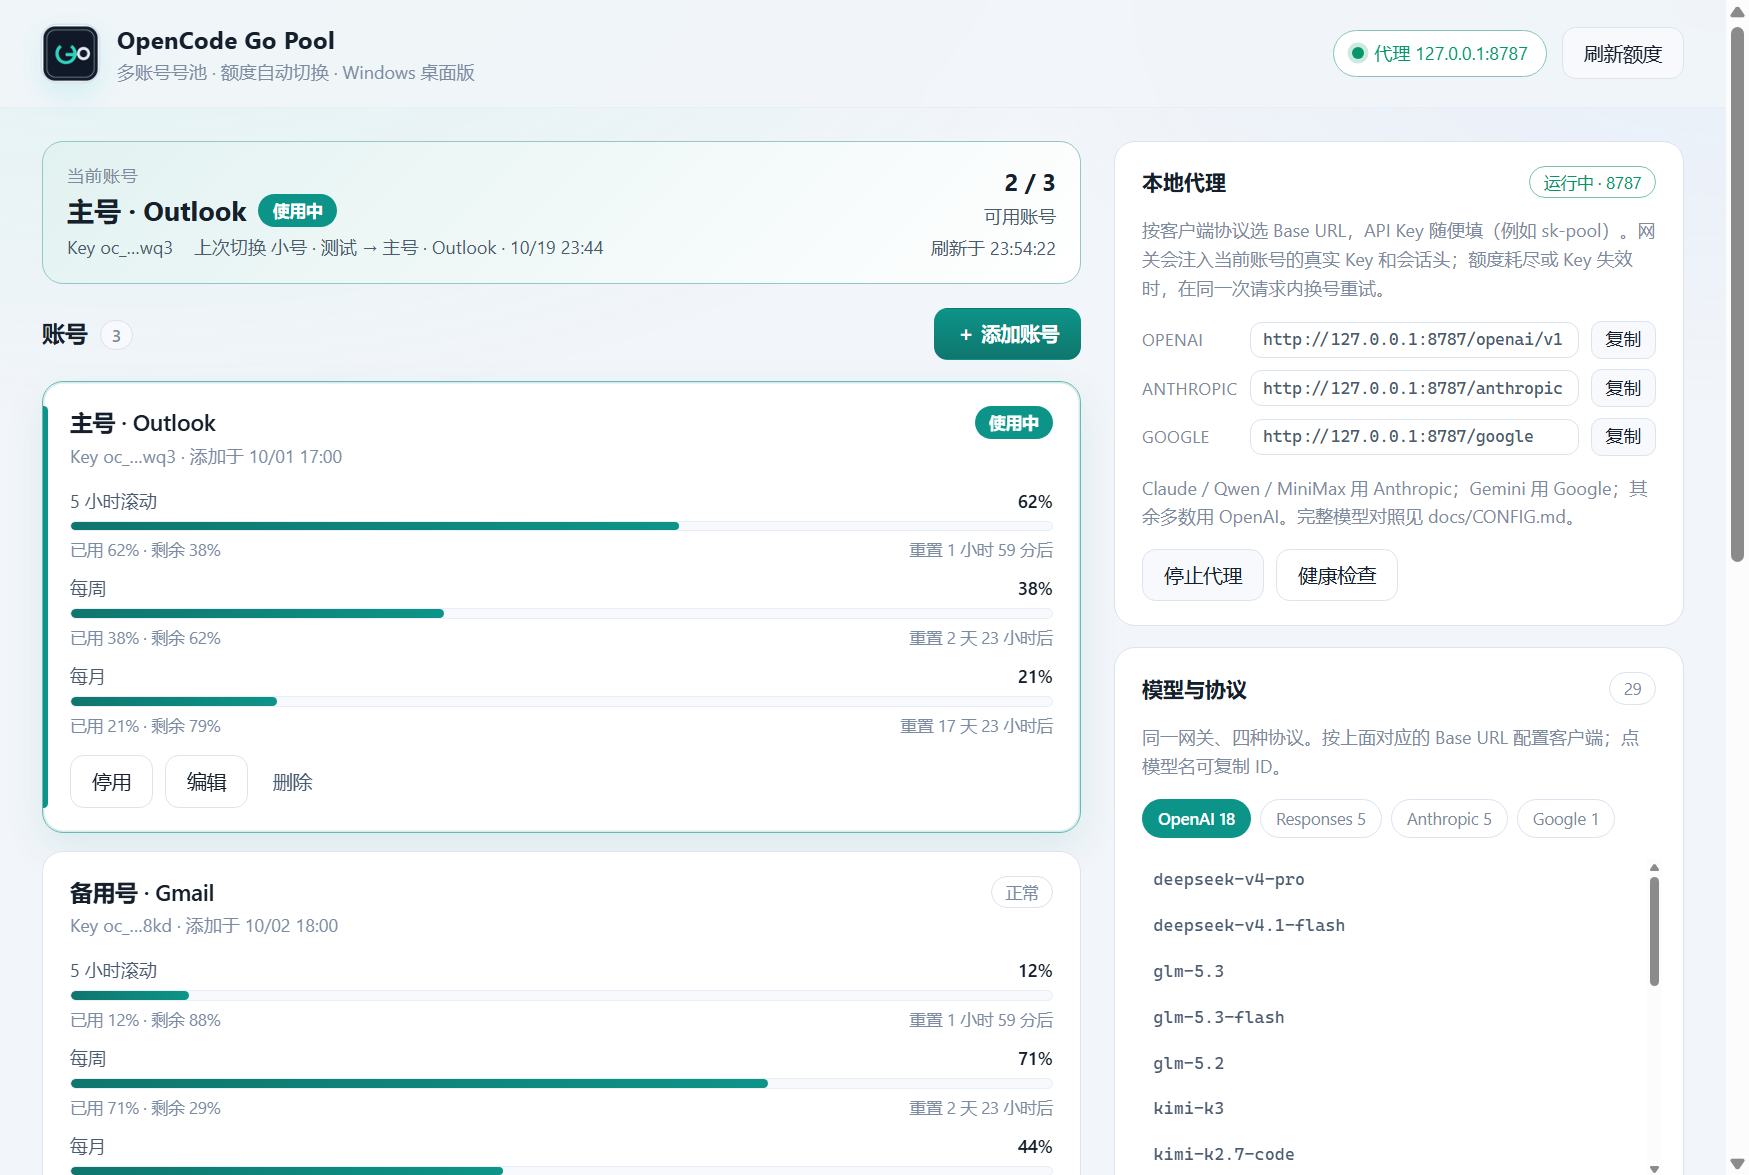
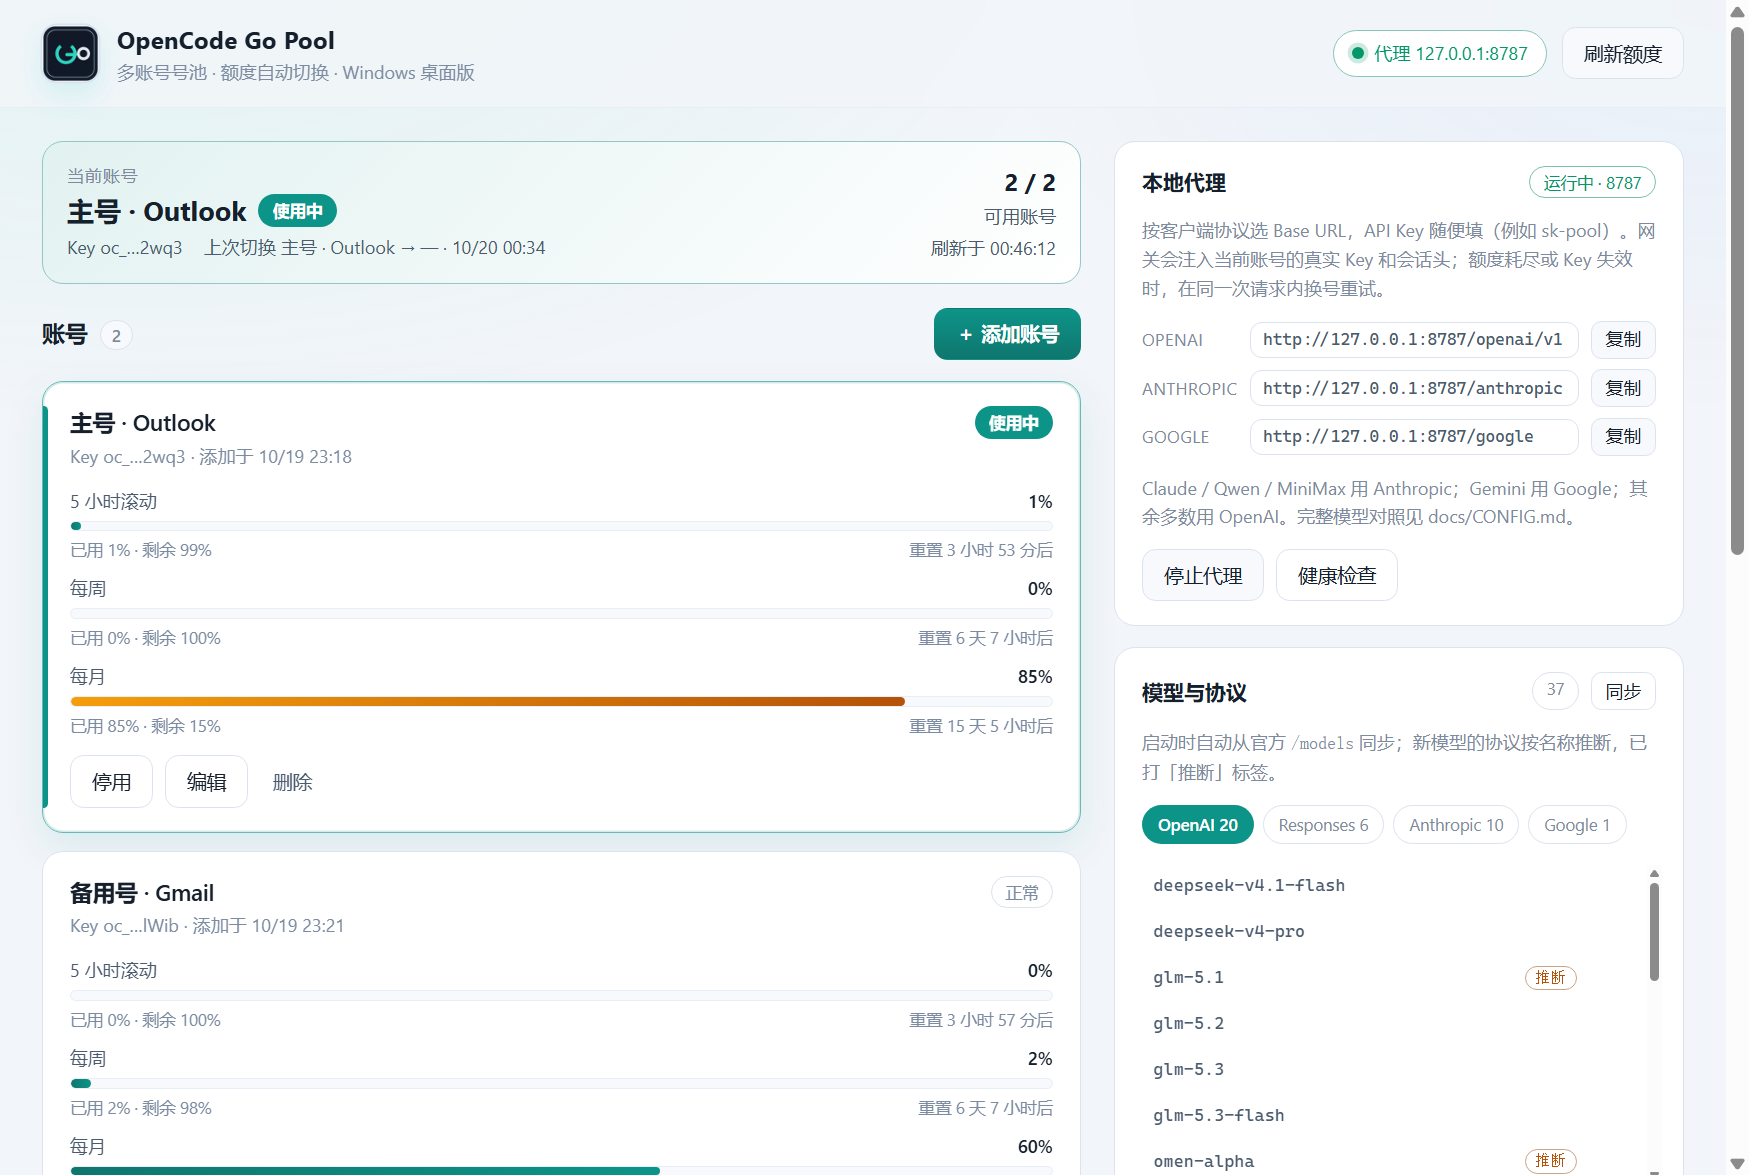
feat: 模型目录自动同步（启动/6h/手动），新模型推断协议
- 新增 models:list IPC，经本地网关注入 Key 拉官方 /models
- UI 动态分组与计数，新模型按名称推断并标「推断」
- 同步失败回退到内置 29 个目录

diff --git a/renderer/app.js b/renderer/app.js
@@ -94,33 +94,55 @@ const USAGE_ERROR_TEXT = {
   'bad-json': '额度接口响应无法解析',
 }
 
-// OpenCode Go 的模型按上游协议分组（pi-ai 1.3.0 目录）。
-// 配错协议会得到上游 400，所以这里按协议分开展示。
-const MODEL_CATALOG = {
-  openai: {
-    note: 'OpenAI Chat 组：兼容性最好，DSH / ZCode / Cherry Studio 等「OpenAI 兼容」供应商填 http://127.0.0.1:8787/openai/v1。',
-    models: [
-      'deepseek-v4-pro', 'deepseek-v4.1-flash', 'glm-5.3', 'glm-5.3-flash', 'glm-5.2',
-      'kimi-k3', 'kimi-k2.7-code', 'longcat-2.0', 'longcat-2.5-preview-free',
-      'mimo-v2.5', 'mimo-v2.5-pro', 'mimo-v2.6-flash', 'mimo-v2.6-pro',
-      'hy3', 'hy4-preview', 'step-5-preview-free', 'cat-jam-free', 'space-bunny',
-    ],
-  },
-  responses: {
-    note: 'OpenAI Responses 组：给 Codex CLI（wire_api = responses）用，Base URL 同上 /openai/v1。GPT / Grok / Muse 在部分地区会 403。',
-    models: ['gpt-6-luna', 'gpt-5.6-luna', 'grok-4.7', 'muse-spark-1.3-contributor', 'muse-spark-1.2-contributor'],
-  },
-  anthropic: {
-    note: 'Anthropic Messages 组：Claude Code / ZCode 的 Anthropic 供应商填 http://127.0.0.1:8787/anthropic。',
-    models: ['claude-haiku-5-5', 'qwen3.8-max', 'qwen3.8-flash', 'qwen3.7-plus', 'minimax-m3'],
-  },
-  google: {
-    note: 'Google Generative AI 组：ZCode / Google SDK 填 http://127.0.0.1:8787/google。需先在 OpenCode 工作区允许「训练数据的付费端点」。',
-    models: ['gemini-4-argon-contributor'],
-  },
+// OpenCode Go 的模型按上游协议分组。上游 /models 只给 id，不给协议，
+// 所以老模型用 pi-ai 的权威目录，新模型按名字推断并标「推断」。
+const MODEL_PROTOCOL = {
+  'deepseek-v4-pro': 'openai', 'deepseek-v4.1-flash': 'openai',
+  'glm-5.3': 'openai', 'glm-5.3-flash': 'openai', 'glm-5.2': 'openai',
+  'kimi-k3': 'openai', 'kimi-k2.7-code': 'openai',
+  'longcat-2.0': 'openai', 'longcat-2.5-preview-free': 'openai',
+  'mimo-v2.5': 'openai', 'mimo-v2.5-pro': 'openai', 'mimo-v2.6-flash': 'openai', 'mimo-v2.6-pro': 'openai',
+  'hy3': 'openai', 'hy4-preview': 'openai', 'step-5-preview-free': 'openai',
+  'cat-jam-free': 'openai', 'space-bunny': 'openai',
+  'gpt-6-luna': 'responses', 'gpt-5.6-luna': 'responses', 'grok-4.7': 'responses',
+  'muse-spark-1.3-contributor': 'responses', 'muse-spark-1.2-contributor': 'responses',
+  'claude-haiku-5-5': 'anthropic', 'qwen3.8-max': 'anthropic', 'qwen3.8-flash': 'anthropic',
+  'qwen3.7-plus': 'anthropic', 'minimax-m3': 'anthropic',
+  'gemini-4-argon-contributor': 'google',
+}
+
+const PROTOCOL_ORDER = ['openai', 'responses', 'anthropic', 'google']
+const PROTOCOL_LABEL = { openai: 'OpenAI', responses: 'Responses', anthropic: 'Anthropic', google: 'Google' }
+const PROTOCOL_NOTE = {
+  openai: 'OpenAI Chat：兼容性最好，DSH / ZCode / Cherry Studio 等「OpenAI 兼容」供应商填 /openai/v1。',
+  responses: 'OpenAI Responses：Codex CLI（wire_api = responses）用，Base URL 同上 /openai/v1。',
+  anthropic: 'Anthropic Messages：Claude Code / ZCode 的 Anthropic 供应商填 /anthropic。',
+  google: 'Google Generative AI：ZCode / Google SDK 填 /google。需先允许「训练数据的付费端点」。',
 }
 
 let activeProto = 'openai'
+let liveModelIds = null
+let liveFetchedAt = null
+let modelSyncError = null
+
+function protocolOf(id) {
+  const known = MODEL_PROTOCOL[id]
+  if (known) return { protocol: known, inferred: false }
+  if (/^gemini/i.test(id)) return { protocol: 'google', inferred: true }
+  if (/^(claude|qwen|minimax)/i.test(id)) return { protocol: 'anthropic', inferred: true }
+  if (/^(gpt|grok|muse-spark)/i.test(id)) return { protocol: 'responses', inferred: true }
+  return { protocol: 'openai', inferred: true }
+}
+
+function modelGroups() {
+  const ids = liveModelIds && liveModelIds.length > 0 ? liveModelIds : Object.keys(MODEL_PROTOCOL)
+  const groups = { openai: [], responses: [], anthropic: [], google: [] }
+  for (const id of ids) {
+    const { protocol, inferred } = protocolOf(id)
+    groups[protocol].push({ id, inferred })
+  }
+  return groups
+}
 
 function usageErrorText(code) {
   if (!code) return ''
@@ -318,24 +340,69 @@ function renderLogs() {
 }
 
 function renderModels() {
-  const group = MODEL_CATALOG[activeProto]
-  if (!group) return
-  for (const chip of document.querySelectorAll('#proto-tabs .chip')) {
-    chip.classList.toggle('active', chip.dataset.proto === activeProto)
+  const groups = modelGroups()
+  const total = PROTOCOL_ORDER.reduce((sum, protocol) => sum + groups[protocol].length, 0)
+  $('#model-count').textContent = String(total)
+
+  if (groups[activeProto].length === 0) {
+    activeProto = PROTOCOL_ORDER.find(protocol => groups[protocol].length > 0) || 'openai'
   }
+
+  const tabs = $('#proto-tabs')
+  clear(tabs)
+  for (const protocol of PROTOCOL_ORDER) {
+    tabs.append(h('button', {
+      class: `chip ${protocol === activeProto ? 'active' : ''}`,
+      dataset: { proto: protocol },
+    }, `${PROTOCOL_LABEL[protocol]} ${groups[protocol].length}`))
+  }
+
   const list = $('#model-list')
   clear(list)
-  for (const id of group.models) {
+  for (const item of groups[activeProto]) {
     list.append(h('div', {
       class: 'model-item',
-      dataset: { model: id },
+      dataset: { model: item.id },
       title: '点击复制模型 ID',
     },
-      h('span', { class: 'model-id' }, id),
+      h('span', { class: 'model-id' }, item.id),
+      item.inferred ? h('span', { class: 'model-tag' }, '推断') : null,
       h('span', { class: 'copy-hint' }, '复制'),
     ))
   }
-  $('#model-note').textContent = group.note
+
+  const inferred = PROTOCOL_ORDER.reduce((sum, protocol) => sum + groups[protocol].filter(item => item.inferred).length, 0)
+  const parts = [PROTOCOL_NOTE[activeProto]]
+  if (liveFetchedAt) parts.push(`同步于 ${fmtClock(liveFetchedAt)}`)
+  else if (modelSyncError) parts.push(`同步失败：${modelSyncError}`)
+  if (inferred > 0) parts.push(`${inferred} 个新模型按名称推断协议`)
+  $('#model-note').textContent = parts.join(' · ')
+}
+
+async function refreshModelCatalog() {
+  const button = $('#refresh-models')
+  if (!button || !api) return
+  const label = button.textContent
+  button.disabled = true
+  button.textContent = '同步中…'
+  try {
+    const result = await api.listModels()
+    if (result && Array.isArray(result.models) && result.models.length > 0) {
+      liveModelIds = result.models.map(model => model.id)
+      liveFetchedAt = result.fetchedAt || new Date().toISOString()
+      modelSyncError = null
+    } else {
+      modelSyncError = '没有拿到模型列表'
+    }
+    renderModels()
+  } catch (error) {
+    modelSyncError = String((error && error.message) || error)
+    renderModels()
+    toast(`模型同步失败：${modelSyncError}`, 'err')
+  } finally {
+    button.disabled = false
+    button.textContent = label
+  }
 }
 
 function render() {
@@ -537,6 +604,8 @@ function setupEvents() {
     renderModels()
   })
 
+  $('#refresh-models').addEventListener('click', refreshModelCatalog)
+
   $('#model-list').addEventListener('click', async event => {
     const item = event.target.closest('.model-item')
     if (!item) return
@@ -584,6 +653,8 @@ async function boot() {
   }
   setupEvents()
   renderModels()
+  refreshModelCatalog()
+  setInterval(refreshModelCatalog, 6 * 60 * 60 * 1000)
   try {
     state = await api.state()
     render()
@@ -593,8 +664,10 @@ async function boot() {
     fail(error)
   }
   api.onState(snapshot => {
+    const proxyCameUp = snapshot.proxy.running && !(state && state.proxy.running)
     state = snapshot
     render()
+    if (proxyCameUp) refreshModelCatalog()
   })
   api.onLog(entry => {
     if (!state) return

diff --git a/electron/core/controller.js b/electron/core/controller.js
@@ -327,6 +327,33 @@ export class Controller extends EventEmitter {
     }
   }
 
+  // ---- models --------------------------------------------------------------
+
+  /**
+   * Live model catalog from OpenCode. Prefer the local gateway (it injects the
+   * active key and session header); fall back to the upstream endpoint with the
+   * active secret when the proxy is off. IDs only — protocol is inferred in the
+   * renderer, because the endpoint does not publish per-model API metadata.
+   */
+  async listModels() {
+    const active = this.pool.current()
+    if (!active && !this.proxyInfo.running) return { models: [], fetchedAt: null, source: 'none' }
+    const url = this.proxyInfo.running
+      ? `http://${this.proxyInfo.host}:${this.proxyInfo.port}/inference/go/v1/models`
+      : 'https://opencode.ai/inference/go/v1/models'
+    const headers = { Accept: 'application/json' }
+    if (!this.proxyInfo.running) headers.Authorization = `Bearer ${this.store.secretOf(active.id)}`
+    const response = await fetch(url, { headers, signal: AbortSignal.timeout(15000) })
+    if (!response.ok) throw new Error(`models endpoint answered HTTP ${response.status}`)
+    const body = await response.json()
+    const list = Array.isArray(body) ? body : (Array.isArray(body?.data) ? body.data : [])
+    return {
+      models: list.filter(item => item && typeof item.id === 'string').map(item => ({ id: item.id, created: item.created ?? null })),
+      fetchedAt: new Date(this.now()).toISOString(),
+      source: this.proxyInfo.running ? 'gateway' : 'upstream',
+    }
+  }
+
   // ---- proxy ---------------------------------------------------------------
 
   proxyStatus() {

diff --git a/renderer/index.html b/renderer/index.html
@@ -80,17 +80,15 @@
         <section class="card" id="models-card">
           <div class="card-head">
             <h3>模型与协议</h3>
-            <span class="tag">29</span>
+            <div class="row">
+              <span id="model-count" class="tag">—</span>
+              <button id="refresh-models" class="btn tiny ghost">同步</button>
+            </div>
           </div>
-          <p class="hint">同一网关、四种协议。按上面对应的 Base URL 配置客户端；点模型名可复制 ID。</p>
-          <div class="proto-tabs" id="proto-tabs">
-            <button class="chip active" data-proto="openai">OpenAI 18</button>
-            <button class="chip" data-proto="responses">Responses 5</button>
-            <button class="chip" data-proto="anthropic">Anthropic 5</button>
-            <button class="chip" data-proto="google">Google 1</button>
-          </div>
+          <p class="hint">启动时自动从官方 <code>/models</code> 同步；新模型的协议按名称推断，已打「推断」标签。</p>
+          <div class="proto-tabs" id="proto-tabs"></div>
           <div id="model-list" class="model-list"></div>
-          <p class="hint" id="model-note">OpenAI Chat 组：兼容性最好，多数客户端都能直接用。</p>
+          <p class="hint" id="model-note">正在同步模型目录…</p>
         </section>
 
         <section class="card" id="settings-card">

diff --git a/renderer/styles.css b/renderer/styles.css
@@ -468,6 +468,18 @@ body {
 .model-item .copy-hint { opacity: 0; font-size: 10px; color: var(--text-3); }
 .model-item:hover .copy-hint { opacity: 1; }
 
+.model-tag {
+  margin-left: auto;
+  margin-right: 6px;
+  font-size: 10px;
+  line-height: 1.5;
+  padding: 0 6px;
+  border-radius: 999px;
+  color: var(--warn);
+  border: 1px solid color-mix(in srgb, var(--warn) 45%, var(--border));
+  white-space: nowrap;
+}
+
 .row { display: flex; gap: 8px; flex-wrap: wrap; }
 
 .field { display: flex; flex-direction: column; gap: 6px; }

diff --git a/README.md b/README.md
@@ -15,8 +15,9 @@
 | 📊 额度看板 | 三条用量进度条 + 重置倒计时，30 秒自动刷新（可调） |
 | 🔁 自动切号 | 额度耗尽、Key 失效立即切换；限流/5xx/网络错误按「连续失败 N 次」切换 |
 | 🎯 主动避让 | 任一额度窗口达到阈值就提前换号，不必等请求失败（默认 95%，可设 100 关闭） |
-| 🖱 托盘 + 快捷键 | 托盘菜单直接选账号；`Ctrl + Alt + O` 切到下一个可用账号；`Ctrl + Alt + Shift + O` 打开面板 |
+| 🧭 模型目录 | 启动时自动从官方 `/models` 同步；老模型按 pi-ai 目录分类，新模型按名称推断协议并标「推断」，每 6 小时自动刷新 |
 | 🌐 本地代理 | 四种协议原样转发：`/openai/v1`、`/anthropic`、`/google`；自动注入 Key 和 `x-opencode-session`，同请求内换号重试，SSE 流式透传 |
+| 🖱 托盘 + 快捷键 | 托盘菜单直接选账号；`Ctrl + Alt + O` 切到下一个可用账号；`Ctrl + Alt + Shift + O` 打开面板 |
 | 🔐 本地加密 | 密钥用 Windows DPAPI（Electron `safeStorage`）加密，只存本机；界面永远拿不到明文 |
 | 🪟 原生体验 | 关闭窗口隐藏到托盘、开机自启（安装版）、Windows 通知、单实例 |
 

diff --git a/docs/CONFIG.md b/docs/CONFIG.md
@@ -15,6 +15,8 @@
 
 API Key 一律填占位符 `sk-pool`（代理会替换成当前账号的真实 Key）。`/v1` 仍然可用，但只等价于 OpenAI Chat 组。
 
+桌面版的「模型与协议」卡片启动时会自动调用官方 `/models`，每 6 小时刷新一次，也可以点「同步」；新模型按名称推断协议并标「推断」。下面的 29 个是 pi-ai 目录里有明确协议的；接口当前返回 37 个，多出来的就是推断项。
+
 ## 客户端速查
 
 | 客户端 | 用哪个 Base URL | 协议 | 能用的模型 |
